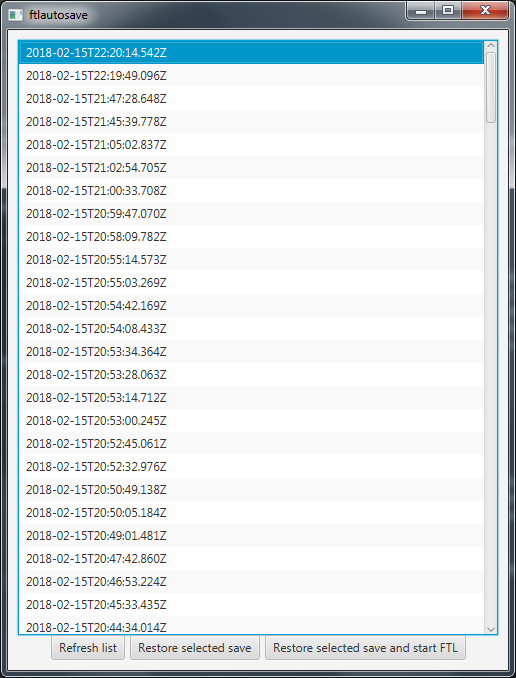
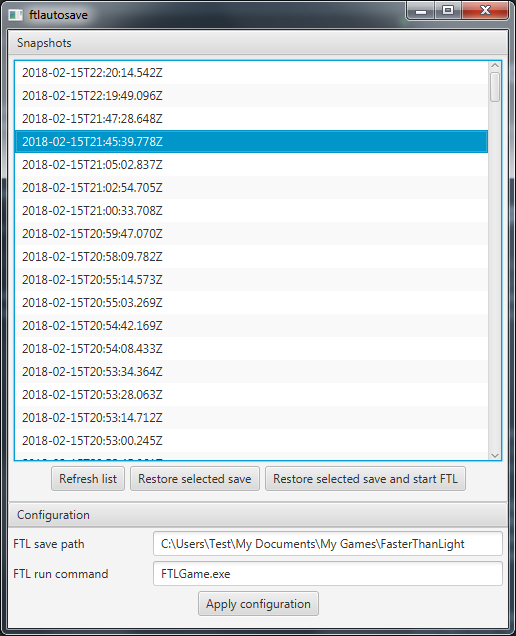
updated readme files and preview picture to reflect changes made

Changed region(s): [[0.0, 0.0, 1.0, 1.0]]

diff --git a/README.md b/README.md
@@ -8,11 +8,12 @@ This allows you to restore a previous save-state and continue from there.
 
 ## Usage
 
-ftlautosave requires Java 8 to run. Right now it has to be run directly in FTL's game folder and it has only been tested on Windows. Check the [releases](https://github.com/synogen/ftlautosave/releases) if you need a pre-compiled jar, further instructions on how to run the program are attached in a readme in the release-zip.
+ftlautosave requires Java 8 or higher to run. Right now it has to be run directly in FTL's game folder and it has only been tested on Windows. Check the [releases](https://github.com/synogen/ftlautosave/releases) if you need a pre-compiled jar, further instructions on how to run the program are attached in a readme in the release-zip.
 
 Once the program is running it automatically monitors the default save directory of FTL on Windows (\Users\\<user\>\My Documents\My Games\FasterThanLight). The UI shows all snapshots that have been created as timestamps, sorted by time in descending order. Right now this list is not automatically updated, you have to manually refresh it using the appropriate button. Restore a snapshot by selecting it, then clicking the appropriate button below.
 
 ![Preview](/images/preview.png)
 
-A configuration file called *config.json* is created on first startup. Check it for options in case the program does not work correctly, both the ftlSavePath and the ftlRunPath have to be properly set for it to work.
+FTL's save folder and game folder can be configured directly in the UI.
+More advanced settings can be found in config.json which is created on first startup.
 
